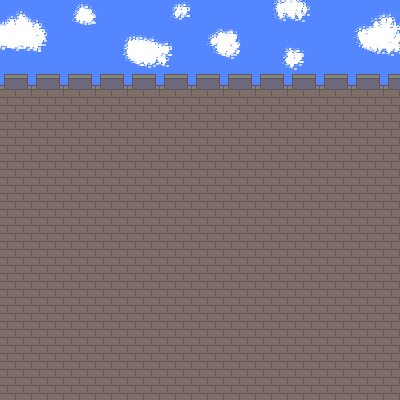
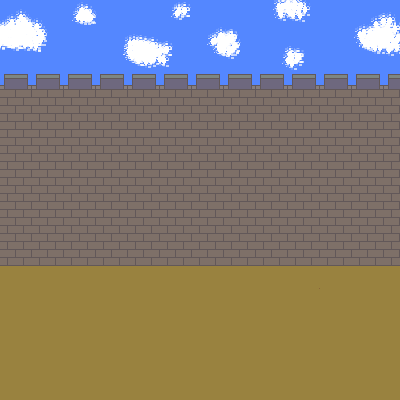
Adicionados sprites mais elaborados para o fundo e botões

diff --git a/core/src/com/mygdx/game/GuillotineClicker.java b/core/src/com/mygdx/game/GuillotineClicker.java
@@ -59,6 +59,10 @@ public class GuillotineClicker extends ApplicationAdapter {
 		skin.add("brownRectangle", coloredSprite(rectangle, skin.getColor("brown")));
 		skin.add("darkBrownRectangle", coloredSprite(rectangle, skin.getColor("darkBrown")));
 		skin.add("grayRectangle", coloredSprite(rectangle, skin.getColor("gray")));
+		skin.add("woodenBackground", new Texture("wooden_plank.png"));
+		skin.add("darkWoodenBackground", new Texture("dark_wooden_plank.png"));
+		skin.add("disabledWoodenBackground", new Texture("disabled_wooden_plank.png"));
+		skin.add("background", new Texture("background.png"));
 
 		Label.LabelStyle defaultLabelStyle = new Label.LabelStyle();
 		defaultLabelStyle.font = font;
@@ -74,9 +78,9 @@ public class GuillotineClicker extends ApplicationAdapter {
 		skin.add("name", defaultLabelStyle);
 
 		ButtonStyle generatorButton = new ButtonStyle(defaultButtonStyle);
-		generatorButton.up = skin.getDrawable("brownRectangle");
-		generatorButton.down = skin.getDrawable("darkBrownRectangle");
-		generatorButton.disabled = skin.getDrawable("grayRectangle");
+		generatorButton.up = skin.getDrawable("woodenBackground");
+		generatorButton.down = skin.getDrawable("darkWoodenBackground");
+		generatorButton.disabled = skin.getDrawable("disabledWoodenBackground");
 		generatorButton.pressedOffsetY = -1;
 
 		skin.add("generator", generatorButton);
@@ -101,6 +105,7 @@ public class GuillotineClicker extends ApplicationAdapter {
 		stage.setViewport(viewport);
 
 		Table rootTable = new Table();
+		rootTable.background(skin.getDrawable("background"));
 		rootTable.setFillParent(true);
 		stage.addActor(rootTable);
 

diff --git a/html/src/com/mygdx/game/client/HtmlLauncher.java b/html/src/com/mygdx/game/client/HtmlLauncher.java
@@ -12,7 +12,7 @@ public class HtmlLauncher extends GwtApplication {
                 // Resizable application, uses available space in browser
                 // return new GwtApplicationConfiguration(true);
                 // Fixed size application:
-                return new GwtApplicationConfiguration(400, 400);
+                return new GwtApplicationConfiguration(800, 800, true);
         }
 
         @Override

diff --git a/desktop/src/com/mygdx/game/DesktopLauncher.java b/desktop/src/com/mygdx/game/DesktopLauncher.java
@@ -10,7 +10,7 @@ public class DesktopLauncher {
 		config.setForegroundFPS(60);
 		config.setTitle("Guillotine Clicker");
 //		config.setResizable(false);
-		config.setWindowedMode(400, 400);
+		config.setWindowedMode(800, 800);
 		new Lwjgl3Application(new GuillotineClicker(), config);
 	}
 }
